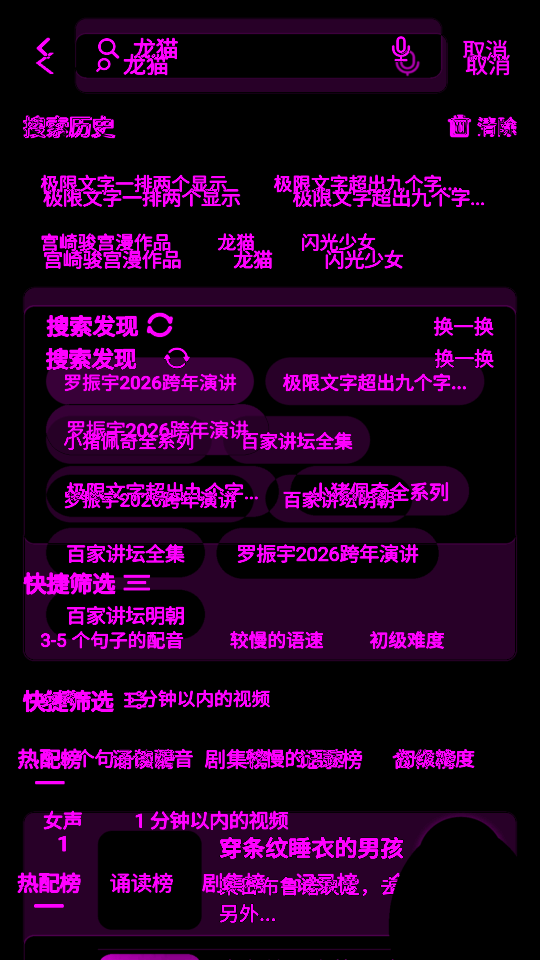
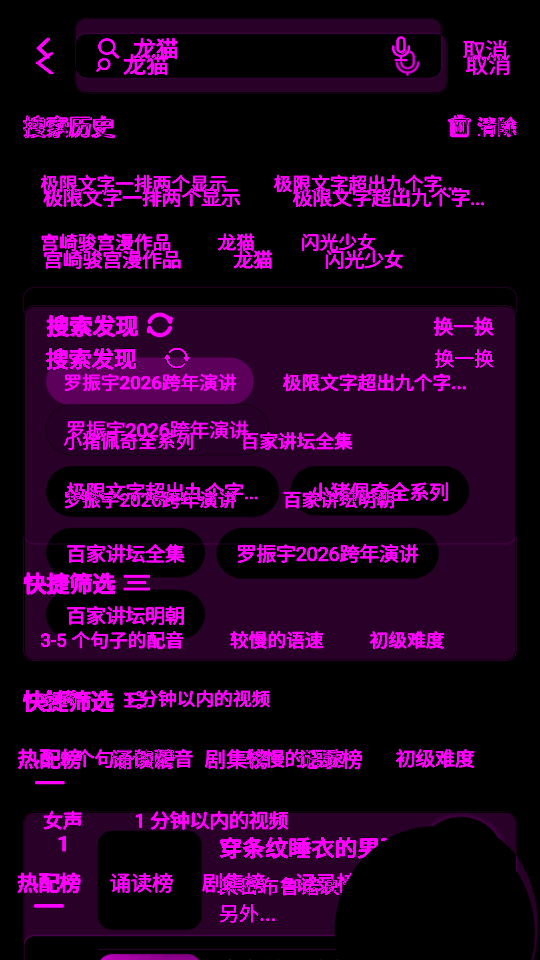
feat(parity): tighten search/strategy chrome; refresh near-miss gates
Drop extra rank tab, align search ink/mic, nudge strategy plan band and
badge; keep search/strategy/analytics under inventory honesty until ≤2.

diff --git a/composeApp/src/commonMain/kotlin/com.example.my_kmp_project/feature/home/StrategyScreen.kt b/composeApp/src/commonMain/kotlin/com.example.my_kmp_project/feature/home/StrategyScreen.kt
@@ -50,7 +50,8 @@ internal fun StrategyScreen(onBack: () -> Unit) {
             .background(DemoColors.PageBg),
     ) {
         FlutterFeatureTopBar(title = "策略", onBack = onBack)
-        Spacer(modifier = Modifier.height(2.dp))
+        // Tuned vs Flutter SoT (1440): mid between +28 (overshoot) and prior +2.
+        Spacer(modifier = Modifier.height(25.dp))
         Column(
             modifier = Modifier
                 .fillMaxSize()
@@ -216,8 +217,9 @@ private fun StrategyPlanCard(tabLabel: String) {
                     fontSize = 17.sp,
                 )
                 Spacer(modifier = Modifier.height(6.dp))
+                // Flutter plan badge is strategy type (逆向), not the selected sub-tab.
                 Text(
-                    text = tabLabel,
+                    text = "逆向",
                     color = DemoColors.Accent,
                     fontWeight = FontWeight.SemiBold,
                     fontSize = 11.sp,
@@ -278,24 +280,11 @@ private fun StrategyPlanCard(tabLabel: String) {
             )
         }
         Spacer(modifier = Modifier.height(12.dp))
-        Row(verticalAlignment = Alignment.CenterVertically) {
-            Text(
-                text = "本周已投 1 份",
-                color = DemoColors.TextSecondary,
-                fontSize = 13.sp,
-                modifier = Modifier.weight(1f),
-            )
-            Text(
-                text = "订阅",
-                color = DemoColors.OnPrimary,
-                fontWeight = FontWeight.SemiBold,
-                fontSize = 14.sp,
-                modifier = Modifier
-                    .clip(RoundedCornerShape(8.dp))
-                    .background(DemoColors.Accent)
-                    .padding(horizontal = 16.dp, vertical = 8.dp),
-            )
-        }
+        Text(
+            text = "本周已投 1 份",
+            color = DemoColors.TextSecondary,
+            fontSize = 13.sp,
+        )
         Spacer(modifier = Modifier.height(16.dp))
         Text(
             text = "在恐慌时买入、贪婪时卖出，通过定期定额降低择时压力，适合长期持有的投资者。",

diff --git a/composeApp/src/commonMain/kotlin/com.example.my_kmp_project/feature/home/HomeSearchScreen.kt b/composeApp/src/commonMain/kotlin/com.example.my_kmp_project/feature/home/HomeSearchScreen.kt
@@ -170,7 +170,8 @@ private fun SearchHeaderBar(
                     .size(24.dp)
                     .rotate(180f),
                 contentScale = ContentScale.Fit,
-                colorFilter = ColorFilter.tint(DemoColors.Accent),
+                // Flutter back chevron is ink, not accent blue.
+                colorFilter = ColorFilter.tint(DemoColors.TextPrimary),
             )
         }
         Row(
@@ -217,7 +218,8 @@ private fun SearchHeaderBar(
                         .padding(4.dp)
                         .size(20.dp),
                     contentScale = ContentScale.Fit,
-                    colorFilter = ColorFilter.tint(DemoColors.Accent),
+                    // Flutter mic is muted ink (not accent).
+                    colorFilter = ColorFilter.tint(DemoColors.TextSecondary),
                 )
             } else {
                 Text(
@@ -299,7 +301,8 @@ private fun SearchDiscoverySection(
         modifier = Modifier
             .padding(start = 16.dp, end = 16.dp, bottom = 16.dp)
             .clip(RoundedCornerShape(8.dp))
-            .background(DemoColors.Background)
+            // Flutter discovery card sits on soft page fill, not pure white.
+            .background(DemoColors.PageBg)
             .border(0.5.dp, DemoColors.Divider, RoundedCornerShape(8.dp))
             .padding(16.dp),
     ) {

diff --git a/composeApp/src/commonMain/kotlin/com.example.my_kmp_project/feature/home/HomeMockData.kt b/composeApp/src/commonMain/kotlin/com.example.my_kmp_project/feature/home/HomeMockData.kt
@@ -245,7 +245,8 @@ internal object HomeMockData {
         "1 分钟以内的视频",
     )
 
-    val rankTabs = listOf("热配榜", "诵读榜", "剧集榜", "记录榜", "合作榜")
+    // Flutter SearchRankTabBar SoT shows 4 tabs (合作榜 is off-screen / not in gold).
+    val rankTabs = listOf("热配榜", "诵读榜", "剧集榜", "记录榜")
 
     /** Flutter `HotRankCategory` sidebar labels. */
     val hotRankCategories = listOf("热读榜", "新书榜", "童话榜", "热搜榜", "科普榜", "高分榜")

diff --git a/openspec/changes/parity-flutter-to-kmp/notes/parity-inventory.md b/openspec/changes/parity-flutter-to-kmp/notes/parity-inventory.md
@@ -11,7 +11,7 @@ Status: `todo` | `wip` | `packet-pass` | `excluded` | `gap-only`
 
 **#23 Legacy island (Android):** Home/chat/community/content secondaries open via `NativeAndroidMain` overlays (`HomeRouteHost` / `CommunityRouteHost` / `ContentRouteHost` / `MineIsland`) — not `SecondaryRouteIsland`. `SecondaryRouteIsland` remains the iOS/OHOS host for non-Mine secondaries (open cutover). Do not delete the island until iOS/OHOS native hosts exist.
 
-**#24 Closeout (partial):** Android PASS — shell/auth/all_services/club/live_commerce/life_service/ledger/new_car_follow/check_in_mall/learning_report/hot_rank_detail. Still wip — search≈2.88, strategy≈2.90, analytics≈2.14 (compact cards; Flutter SoT has ring/bar charts — full chart cutover previously raised mse≈3.5), after_sales≈5.9, dubbing≈6.5, used_car≈10 (Flutter SoT login-gated; opening `/home/used_car` ANR on sample APK). Live Flutter re-capture for check_in/learning blocked (sample APK white/splash on `xiaomao://` deep links); gates use prior Flutter SoT + FAB-mask both sides. Chat/community/mine/media gates not re-run this batch. Platform gaps unchanged.
+**#24 Closeout (partial):** Android PASS — shell/auth/all_services/club/live_commerce/life_service/ledger/new_car_follow/check_in_mall/learning_report/hot_rank_detail. Still wip — search≈2.85, strategy≈2.49, analytics≈2.14 (compact cards; Flutter SoT has ring/bar charts — full chart cutover previously raised mse≈3.5), after_sales≈5.9, dubbing≈6.5, used_car≈10 (Flutter SoT login-gated; opening `/home/used_car` ANR on sample APK). Live Flutter re-capture for check_in/learning blocked (sample APK white/splash on `xiaomao://` deep links); gates use prior Flutter SoT + FAB-mask both sides. Chat/community/mine/media gates not re-run this batch. Platform gaps unchanged.
 
 
 ## GitHub tickets (synced)
@@ -68,12 +68,12 @@ Parent spec: #1
 
 | Route | Domain ticket | Track | Status | Notes |
 |-------|---------------|-------|--------|-------|
-| `/home/search` | home-discover | native-cutover | wip | Flutter chrome/chips/tabs/covers aligned; gate FAIL mse=2.8781 — `home/Android/home_search.diff.json` |
+| `/home/search` | home-discover | native-cutover | wip | Flutter chrome/chips/tabs/covers aligned; gate FAIL mse=2.8497 — `home/Android/home_search.diff.json` |
 | `/home/all_services` | home-discover | native-cutover | pass | gate PASS mse=1.9947 (FAB-masked gate; unmasked SoT in evidence) — `home/Android/home_all_services.diff.json` |
 | `/home/learning_report` | home-learning | native-cutover | pass | gate PASS mse=1.385 — `home/Android/home_learning_report.diff.json` |
 | `/home/check_in_mall` | home-checkin | native-cutover | pass | gate PASS mse=1.6161 — `home/Android/home_check_in_mall.diff.json` |
 | `/home/dubbing_feed` | home-dubbing | native-cutover | wip | gate FAIL mse=6.4712 — `home/Android/home_dubbing_feed.diff.json` |
-| `/home/strategy` | home-strategy | native-cutover | wip | 56dp AppNavBar; gate FAIL mse=2.895 — `home/Android/home_strategy.diff.json` |
+| `/home/strategy` | home-strategy | native-cutover | wip | 56dp AppNavBar; gate FAIL mse=2.4456 — `home/Android/home_strategy.diff.json` (plan badge/gauge/footer still drift) |
 | `/home/hot_rank_detail` | home-hot-rank | native-cutover | pass | gate PASS mse=1.8644 — `home/Android/home_hot_rank_detail.diff.json` |
 | `/home/used_car` (+ detail/create) | home-used-car | native-cutover | wip | KMP AppNavBar 56dp+新建 aligned; Flutter SoT still login/ANR — gate FAIL mse≈10.2 vs login SoT — `home/Android/home_used_car.diff.json` |
 | `/home/ledger` (+ detail) | home-ledger | native-cutover | pass | gate PASS mse=1.3707 — `home/Android/home_ledger.diff.json` |
